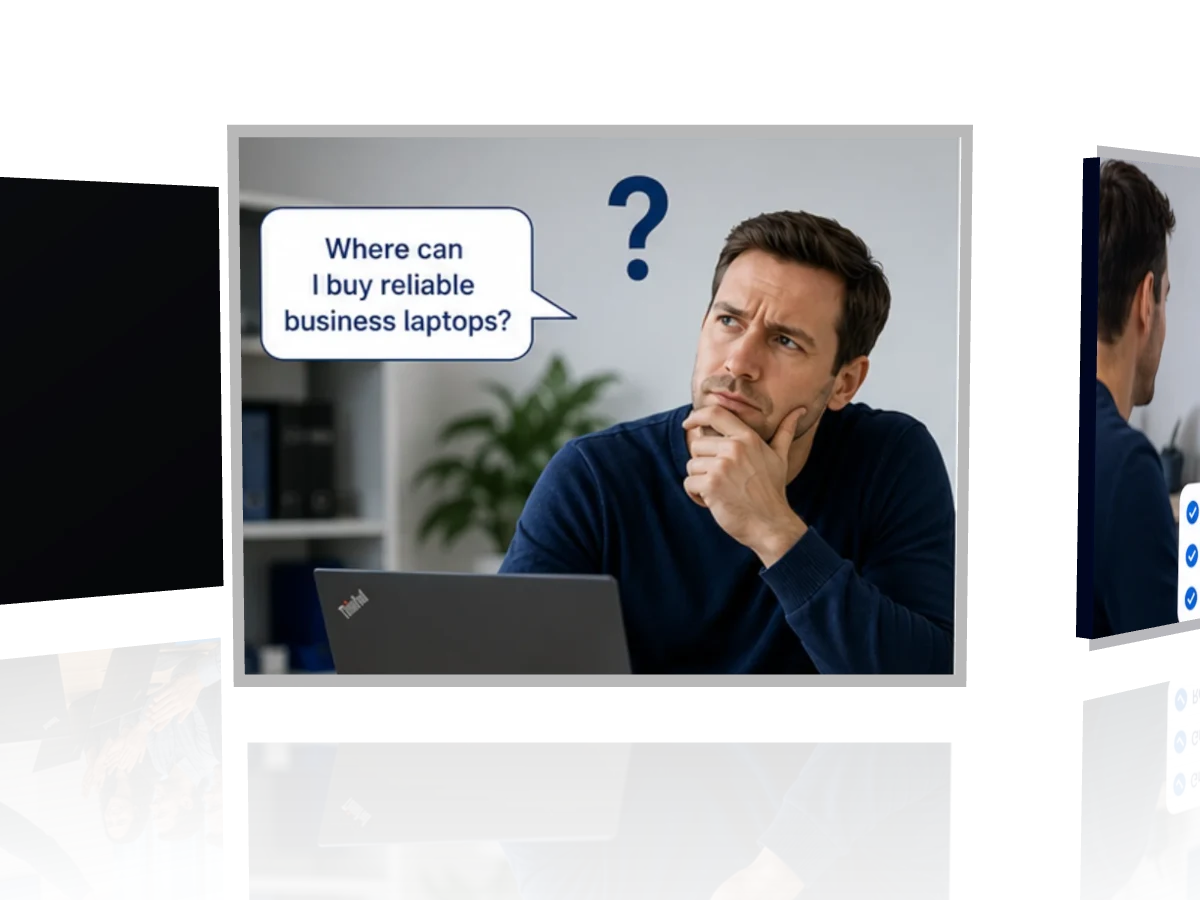
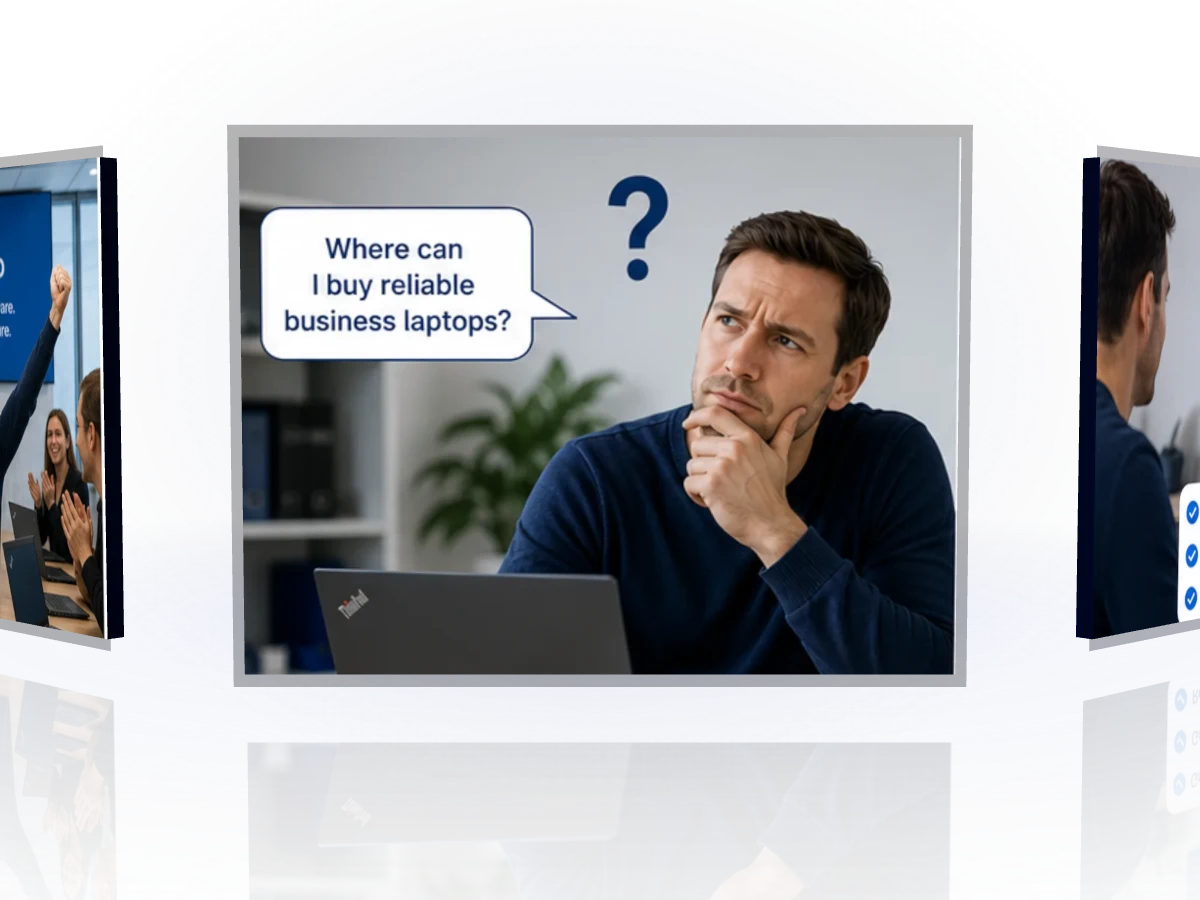
Give the carousel a room to stand in
The panes were lit but the space around them was not: a flat rectangle of
navy with a faint grid in one corner, and an object standing in nothing
reads as a picture pasted onto a wall.

In the scene, three things that a studio photographer would use. A lit
backdrop stood up behind the ring and a pool of light laid flat under it,
both a single radial gradient drawn to a canvas — the panes are dark
objects, and without something lit behind and beneath them there is no
room, only shapes. And fog, in the hero's own navy, so a pane on the far
side of the ring dissolves into the page behind it instead of being as
bright as the one at the front; the fog starts just past the front pane,
because starting it at the camera greyed the pane the visitor is actually
reading.

In the hero, the same light continued outwards in CSS, since the scene's
backdrop stops dead at the edge of its canvas. A key light behind the
carousel spilling left, the drafting grid re-aimed at the middle — behind
photographs it was competing with them, and the empty half of the hero was
the part that needed something in it — and the floor falling away at the
bottom so the band ends in shadow rather than at a line.

Fixed a real bug on the way: faceIn was scaling the raw ring angle instead
of the wrapped one, so a pane standing at 300° was rotated 216° and showed
the camera its dark back. One of the three visible panes was rendering as
a black slab.
[…]

Changed region(s): [[0.0, 0.1556, 0.185, 0.7467]]

diff --git a/components/Hero.tsx b/components/Hero.tsx
@@ -35,19 +35,54 @@ export default function Hero({ lang }: { lang: Lang }) {
   return (
     <section className="relative overflow-hidden bg-brand-950">
       {/*
-        A drafting grid in CSS rather than an image: it costs no request, suits
-        a company that sells to a specification, and gives the dark field
-        something to hold without the blur-blob decoration.
+        The room the carousel stands in, in three layers.
+
+        The carousel brings its own lit backdrop and floor, but they stop at
+        the edge of its canvas — and a lit object on a flat rectangle of navy
+        reads as a picture pasted onto a wall rather than as something standing
+        in the page. These continue that light outwards, so the glow behind the
+        panes carries on into the hero and the field has a near side and a far
+        side instead of being one even colour.
+
+        All three are CSS, so they cost no request and nothing to draw.
+      */}
+
+      {/* The key light, sitting behind the carousel and spilling left. */}
+      <div
+        aria-hidden="true"
+        className="pointer-events-none absolute inset-0"
+        style={{
+          background:
+            "radial-gradient(115% 95% at 76% 20%, rgba(46,121,255,0.20) 0%, rgba(24,50,124,0.10) 36%, transparent 70%)",
+        }}
+      />
+
+      {/*
+        A drafting grid: it suits a company that sells to a specification and
+        gives the dark field something to hold without the blur-blob
+        decoration. Aimed at the middle rather than at the carousel — behind
+        photographs it was competing with them, and the empty half of the hero
+        was the part that needed something in it.
       */}
       <div
         aria-hidden="true"
-        className="pointer-events-none absolute inset-0 opacity-[0.35]"
+        className="pointer-events-none absolute inset-0 opacity-[0.3]"
         style={{
           backgroundImage:
             "linear-gradient(to right, rgba(147,169,239,0.09) 1px, transparent 1px), linear-gradient(to bottom, rgba(147,169,239,0.09) 1px, transparent 1px)",
           backgroundSize: "72px 72px",
-          maskImage: "radial-gradient(120% 90% at 70% 30%, #000 30%, transparent 78%)",
-          WebkitMaskImage: "radial-gradient(120% 90% at 70% 30%, #000 30%, transparent 78%)",
+          maskImage: "radial-gradient(105% 95% at 42% 42%, #000 18%, transparent 74%)",
+          WebkitMaskImage: "radial-gradient(105% 95% at 42% 42%, #000 18%, transparent 74%)",
+        }}
+      />
+
+      {/* The floor falling away, so the band ends in shadow rather than at a
+          line. It also gives the section below something to arrive on. */}
+      <div
+        aria-hidden="true"
+        className="pointer-events-none absolute inset-x-0 bottom-0 h-2/5"
+        style={{
+          background: "linear-gradient(180deg, rgba(4,8,18,0) 0%, rgba(4,8,18,0.5) 100%)",
         }}
       />
 
